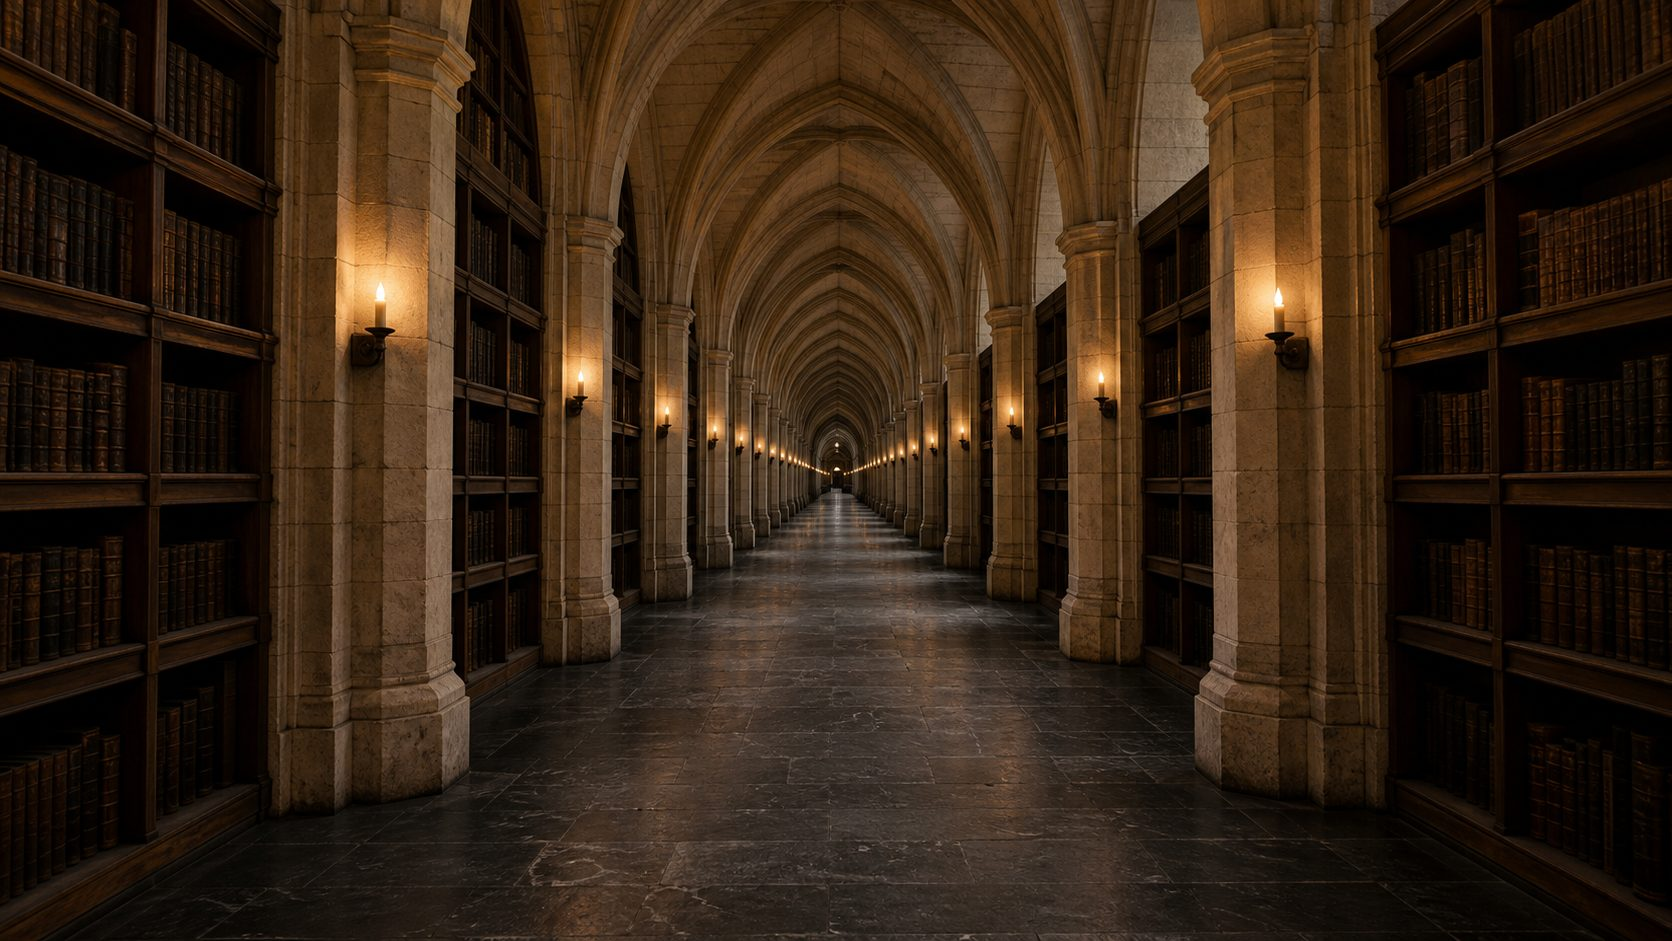
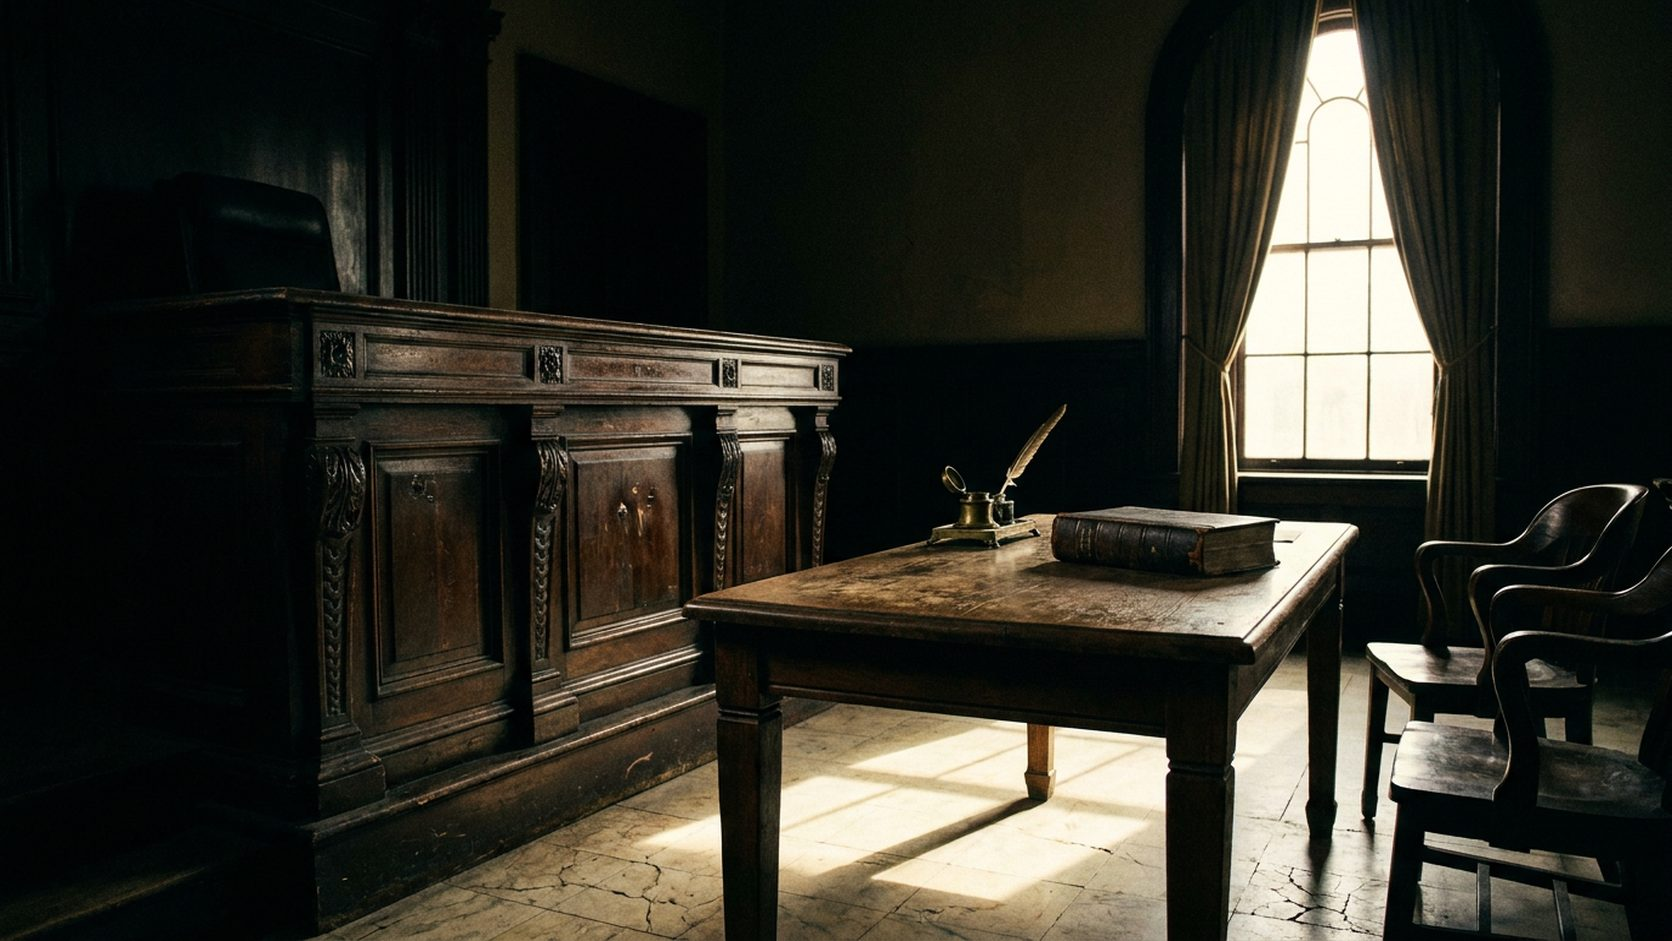
His second review closed: the reappearing-text bug found and killed, parchment carries the whole ivory stretch, the 1873 chamber becomes the courtroom
THE REAPPEARING TEXT (his top note, three sections named): a real bug of mine — fadeCopy
restored opacity at local>1.25, but a tall pinned copy block can still be partly ON
SCREEN there, so faded words snapped back. Faded copy now stays at 0 until its whole
section is above the viewport. Verified: opacity holds '0' at the exact spot it used to
snap back, clears only once the section is gone. This was the disappear/reappear on the
Answer, the 1873 chamber, the Turn, and the Hall.

THE WHITE STRETCH (his note: 'carry that parchment paper background through… maybe
another image of parchment like the other one with smooth transitions'): the Answer's
procedural flat ivory is retired — act 25 samples the SAME handmade-paper photograph as
Landfall, reframed and drifting, so the two pages read as one continuous document; the
landfall->answer seam is now a direct crossfade (dipping two ivory pages through black
read as a dark flash); the dusk tail into the harbor stays. Measured luminance walks
210->199->200->173->158->75 with no white void and no flash.

THE 1873 CHAMBER (his note: background 'irrelevant… amazing imagery from that time
period', his uploads as inspiration): plate v2 — an 1870s American courtroom corner,
walnut bench, counsel table with the worn law report, one tall window laying its cold
pool on scuffed marble. Two prompt rounds + a brief correction (the judging brief still
described round 1's lamps, unfairly docking round 2); winner corridor1873-t5 at 25.3/30,
[…]

diff --git a/index.html b/index.html
@@ -44,6 +44,16 @@ main section:where(:not(#landfall):not(#answer):not(#hall)) .wrap
   box-shadow:inset 0 0 0 1px rgba(201,165,92,.10)}
 #wall .plaques{margin-top:2.4rem}
 #wall .caption{margin-top:2.2rem}
+/* ministry's citation chips sit on their own lines inside the glass — the long 508 chip
+   was overflowing the panel's right edge at wide viewports (his 8/24 night note) */
+#ministry .caption .chip{display:table;margin:.5rem 0 0}
+/* the Second Chair close rides its own paper panel — ink was sinking into the shelf's
+   dark wood at wide viewports, and the verse chip overlapped the line (8/24 night) */
+#hall .chairclose{margin-top:2.6rem;max-width:46rem;background:rgba(243,236,224,.78);
+  border:1px solid rgba(138,107,47,.30);border-radius:6px;padding:1.5rem 1.7rem;
+  -webkit-backdrop-filter:blur(3px);backdrop-filter:blur(3px)}
+#hall .chairclose .chip{display:table;margin:.5rem 0 0}
+#hall .chairclose p{color:rgba(16,20,32,.88)}   /* bare p falls back to base ivory — ink it */
 /* the 1873 + 1933 authority chains ride quiet glass; wide viewports put their small
    type over bright marble (grok eye-pass 8/24 eve) */
 #chamber1873 .thread,#gold1933 .thread{background:linear-gradient(180deg,rgba(6,9,16,.45),rgba(6,9,16,.12));
@@ -681,7 +691,7 @@ footer{position:relative;z-index:1;padding:5rem clamp(1.4rem,6vw,7rem) 4rem;
     <p class="cite">Title 8 Ministries™</p>
     <!-- 8/24 citation enrichment: the claim rode bare — the mandatory-exception statute and
          the oldest church-autonomy case now sit beside it (both pre-verified, live-checked) -->
-    <p class="caption"><a class="chip" href="https://uscode.house.gov/view.xhtml?req=granuleid:USC-prelim-title26-section508&amp;num=0&amp;edition=prelim" style="margin-left:0" target="_blank" rel="noopener">26 u.s.c. &sect; 508(c)(1)(A) &middot; churches &mdash; the mandatory exception</a>
+    <p class="caption"><a class="chip" href="https://uscode.house.gov/view.xhtml?req=granuleid:USC-prelim-title26-section508&amp;num=0&amp;edition=prelim" style="margin-left:0" target="_blank" rel="noopener">26 u.s.c. &sect; 508(c)(1)(A) &mdash; the mandatory exception</a>
       <a class="chip" href="https://tile.loc.gov/storage-services/service/ll/usrep/usrep080/usrep080679/usrep080679.pdf" target="_blank" rel="noopener">watson v. jones, 80 u.s. 679</a></p>
   </div></div>
 </section>
@@ -826,7 +836,7 @@ footer{position:relative;z-index:1;padding:5rem clamp(1.4rem,6vw,7rem) 4rem;
 </section>
 
 <!-- V·f · THE STATUTES TURN — from system to remedy, his teaching voice -->
-<section id="statutes" style="height:170vh;align-items:flex-start">
+<section id="statutes" style="height:140vh;align-items:flex-start">
   <div class="still" style="background-image:url(assets/plate-statutes.jpg)"></div>
   <div class="hold"><div class="wrap reveal">
     <p class="kicker">The Turn</p>
@@ -866,11 +876,13 @@ footer{position:relative;z-index:1;padding:5rem clamp(1.4rem,6vw,7rem) 4rem;
          the ask becomes a commission to build a house, not join a club. His post's own
          close (harvest §5) + KJV Matt 7:24 VERBATIM (bible-api-verified 8/24). The empty
          second chair IN THE PLATE is held for his call — copy beat ships first. -->
-    <p style="margin-top:2.6rem">The house built upon a solid rock</p>
+    <div class="chairclose">
+    <p style="margin-top:0">The house built upon a solid rock</p>
     <p class="caption"><em>Therefore whosoever heareth these sayings of mine, and doeth them,
       I will liken him unto a wise man, which built his house upon a rock:</em>
       <a class="chip" href="https://en.wikisource.org/wiki/Bible_(King_James)/Matthew" target="_blank" rel="noopener">matthew 7:24 &middot; kjv &mdash; read it</a></p>
     <p>This is the foundation of which I build my family church.</p>
+    </div>
     <!-- connective — ⚠ data-pending-confirm: his blessing -->
     <p class="cite" data-pending-confirm>You didn&rsquo;t break the chain to sit alone in the light.</p>
     <p class="cite">Be found faithful. — J.F.M.</p>
@@ -1013,6 +1025,7 @@ setTimeout(()=>{ LATER.forEach(loadCham); }, 4200);
 const GRADE = {3:["naghammadi",-1],   /* act 3 reads tCham directly; grade unused */
                21:["harbor",-1],22:["christening",-1],23:["warehouse",-1],  /* the wing: own acts, grade unused */
                24:["nineteen33",11],   /* the 1933 chamber */
+               25:["landfall",-1],     /* the Answer rides the same parchment, another view */
                10:["babylon",0],11:["rome",1],12:["church",2],13:["sixteensixtysix",3],
                14:["labanca",4],15:["landfall",5],16:["ministry",6],17:["wall",7],
                18:["study",8],19:["statutes",9],20:["morninghall",10]};
@@ -1511,6 +1524,30 @@ vec3 actLand(vec2 uv, float p){
   return col;
 }
 
+/* ═ ACT 25 · THE ANSWER — the same handmade parchment, ANOTHER VIEW (8/24 night, his
+   review: the procedural ivory read as "a plain white background with no image" — the
+   whole ivory stretch now carries the paper photograph, landfall's plate reframed, so
+   the two pages read as one continuous document). Slow drift, travelling daylight,
+   dusk falls at the tail into the harbor. ═ */
+vec3 actAnswer(vec2 uv, float p){
+  vec2 cuv = cover(uv);
+  cuv = zoomAt(cuv, mix(vec2(.62,.62), vec2(.44,.34), smoothstep(0.,1.,p)), 1.24+.08*p);
+  float d = texture2D(dCham,cuv).r;
+  cuv += (d-.5)*vec2(uMouse.x*.016, uMouse.y*.009);
+  vec3 col = texture2D(tCham,cuv).rgb;
+  vec2 sun = vec2(.24+.58*p, .10+.18*p);                            /* daylight travels the sheet */
+  col *= 1.-smoothstep(.30,1.3,distance(uv,sun))*(.06+.16*p);
+  col *= mix(vec3(1.0), vec3(1.012,.998,.978), p);
+  /* DUSK FALLS ON THE PAGE — the seam into the dark harbor stays dark-to-dark */
+  vec2 o=uv-.5;
+  float dusk  = smoothstep(.76,.985,p);
+  float ring  = smoothstep(.06,.62,length(o));
+  float night = clamp(dusk*(.30+.85*ring) + smoothstep(.93,1.,p)*.75, 0., 1.);
+  col = mix(col, vec3(.030,.038,.058)*(0.85+.30*texture2D(tPaper,uv*3.).r), night);
+  col += vec3(1.,.86,.60)*exp(-length(o-vec2(.06,-.14))*3.2)*dusk*(1.-night)*.10;
+  return col;
+}
+
 /* ═ ACT 6 · THE HALL — candlelit epilogue ═ */
 vec3 actHall(vec2 uv, float p){
   vec2 cuv = cover(uv);
@@ -1525,21 +1562,22 @@ vec3 actHall(vec2 uv, float p){
   return col;
 }
 
-/* ═ ACT 7 · THE 1873 CHAMBER — the flagship: the corridor re-lit cold ═ */
+/* ═ ACT 7 · THE 1873 CHAMBER — the courtroom itself now (plate v2, 8/24 night: his call —
+   the corridor "has nothing to do with the text"; the room is an 1870s courtroom, the one
+   window's cold daylight pool at .78,.65 measured). The judicial relight stays cold. ═ */
 vec3 actChamber(vec2 uv, float p){
   vec2 cuv = cover(uv);
   cuv = zoomAt(cuv, vec2(.5,.48), 1.04+.10*p);                     /* drift forward, walking pace */
   float d = texture2D(dCorr,cuv).r;
   cuv += (d-.5)*vec2(uMouse.x*.022, uMouse.y*.012);
   vec3 col = texture2D(tCorr,cuv).rgb;
-  /* the cold key: one white judicial light from high left kills the corridor's warmth */
-  float cold = smoothstep(.15,.75,cuv.y)*smoothstep(.9,.25,cuv.x);
+  /* the cold key: the tall window at the right — the one light this room is allowed */
+  float cold = smoothstep(.25,.85,cuv.y)*smoothstep(.35,.85,cuv.x);
   vec3 g = vec3(dot(col,vec3(.299,.587,.114)));
-  col = mix(col, g*vec3(.82,.90,1.05), .45+.25*cold);              /* marble drained toward monochrome */
-  float fl = 1.+.015*sin(uTime*11.3)+.012*sin(uTime*6.7+2.1);      /* one candle survives, low right */
-  col += vec3(1.,.72,.38)*smoothstep(.5,.0,distance(cuv,vec2(.82,.30)))*.05*fl;
-  col *= .80+.10*p;
-  vec2 o=uv-.5; col *= 1.-dot(o,o)*.72;
+  col = mix(col, g*vec3(.82,.90,1.05), .40+.22*cold);              /* drained toward judicial monochrome */
+  col += vec3(.90,.95,1.05)*smoothstep(.45,.0,distance(cuv,vec2(.78+.05*p,.65)))*.06;  /* the pool breathes as you walk */
+  col *= .84+.12*p;
+  vec2 o=uv-.5; col *= 1.-dot(o,o)*.68;
   return col;
 }
 
@@ -1680,6 +1718,7 @@ vec3 act(int id, vec2 uv, float p){
   if(id==30) return actCreation(uv,p);
   if(id==31) return actStanding(uv,p);
   if(id==21) return actHarbor(uv,p);
+  if(id==25) return actAnswer(uv,p);
   if(id==22) return actChristening(uv,p);
   if(id==23) return actCargo(uv,p);
   if(id>=10) return actPaper(uv,p);
@@ -1710,6 +1749,10 @@ void main(){
       float ring = smoothstep(.035,.0,abs(r-front))* (1.-uBlend);
       col = mix(col, colB, mask);
       col += vec3(.5,.8,.85)*ring*.45;
+    } else if((uActA==15&&uActB==25)||(uActA==25&&uActB==15)){
+      /* landfall -> answer: the SAME sheet of paper, two framings — crossfade directly
+         (8/24 night: dipping two ivory pages through black read as a dark flash) */
+      col = mix(col, colB, smoothstep(0.,1.,uBlend));
     } else {
       /* never ghost two plates through each other — dip through the dark instead */
       float b = smoothstep(0.,1.,uBlend);
@@ -1802,7 +1845,7 @@ composer.addPass(grainPost);
 /* The act table is DERIVED from the real section geometry — the hand-kept table had to be
    "remapped" by hand after every new movement, and a hand-kept table drifts. */
 const ACT_OF = {seal:0, waters:1, deep:2, creation:30, standing:31, jar:3, breach:4, landfall:15,
-                answer:5,   /* the procedural ivory page — actLand found its section again 8/24 */
+                answer:25,  /* the parchment photo, another view (act 25; actLand retired 8/24 night) */
                 harbor:21, christening:22, cargo:23,   /* the Named by Water wing */
                 babylon:10, rome:11, church:12, cestui:13, labanca:14,
                 ministry:16, chamber1873:7, gold1933:24, wall:17, study:18, statutes:19, hall:20};
@@ -1887,7 +1930,16 @@ function fadeCopy(){
     const span = sec.offsetHeight - innerHeight;
     if (span<=0){ if(w.style.opacity) w.style.opacity=""; continue; }
     const local = (scrollY - sec.offsetTop)/span;
-    if (local<-0.05 || local>1.25){ if(w.style.opacity) w.style.opacity=""; continue; }
+    if (local < -0.05){ if(w.style.opacity) w.style.opacity=""; continue; }
+    /* ⛔ 8/24 night, his review: the old reset restored opacity at local>1.25 — but a tall
+       pinned copy block can STILL be partly on screen there, so faded words snapped back
+       ("text disappears and then reappears"). Faded copy now stays faded until the whole
+       section is above the viewport; only then does the inline style clear. */
+    if (local > FADE_START + FADE_SPAN){
+      const gone = (sec.offsetTop + sec.offsetHeight) < scrollY;
+      w.style.opacity = gone ? "" : "0";
+      continue;
+    }
     const o = local>FADE_START ? Math.max(0, 1-(local-FADE_START)/FADE_SPAN) : 1;
     w.style.opacity = o.toFixed(3);
   }
